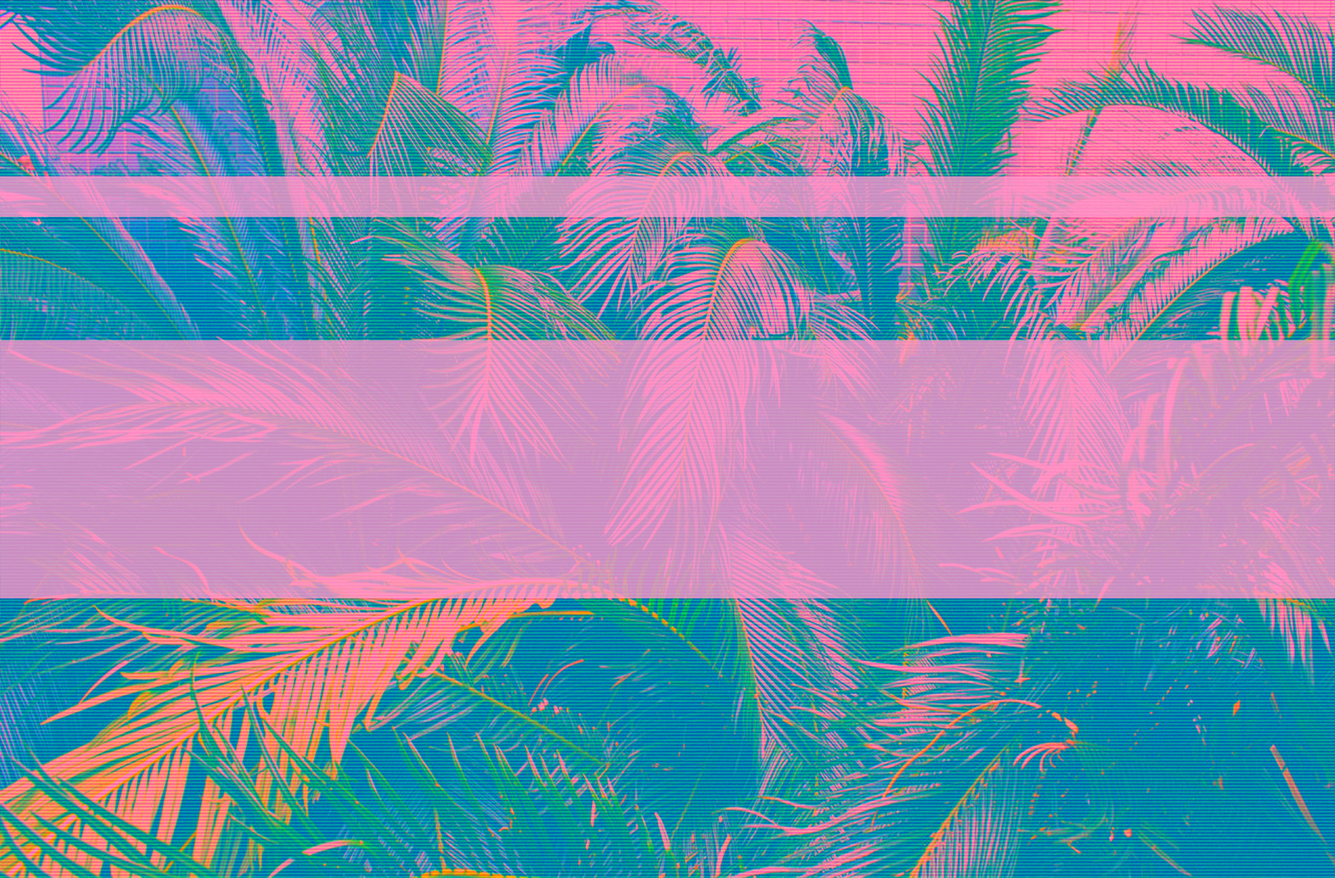
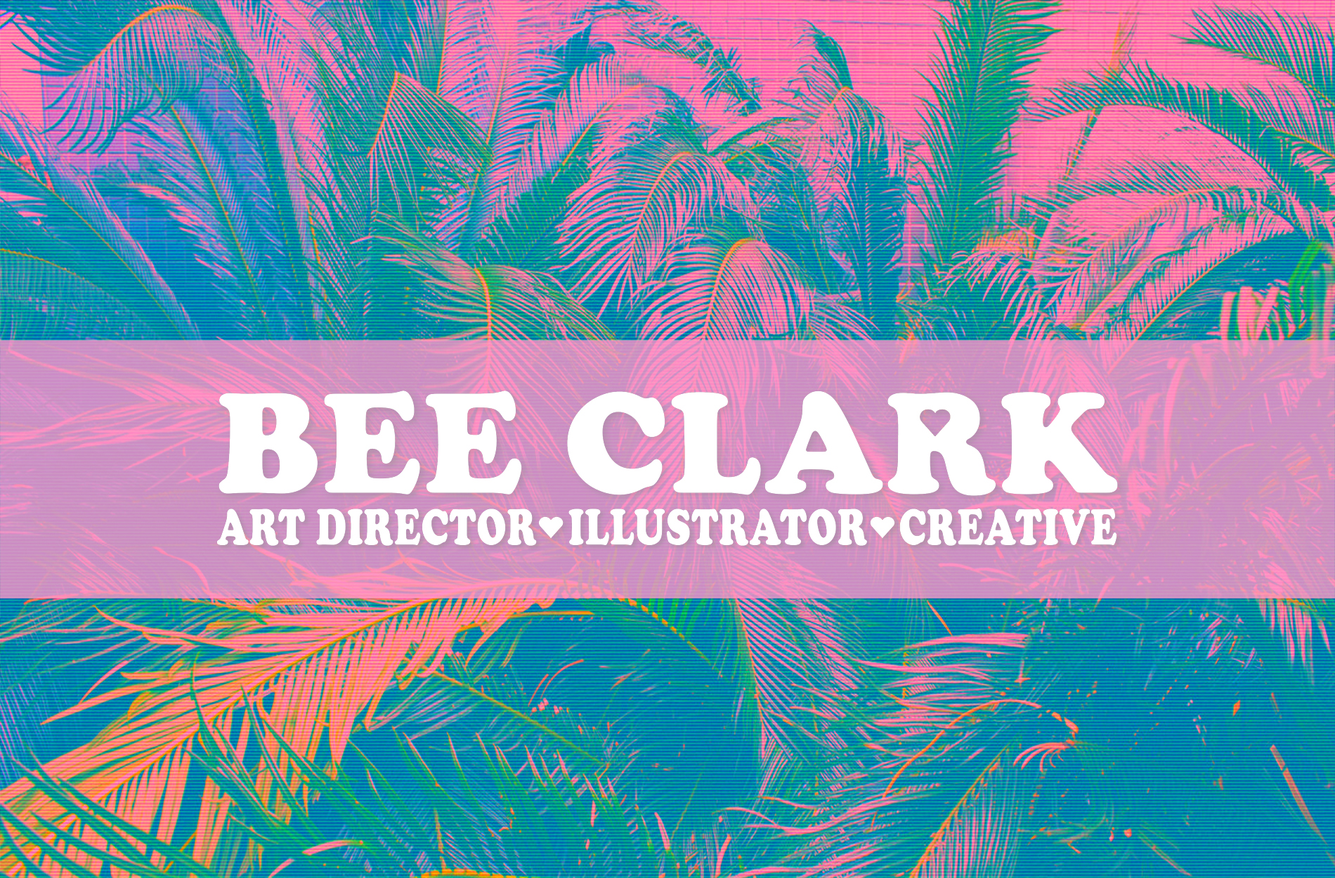
try again

Changed region(s): [[0.1553, 0.4368, 0.8384, 0.624], [0.0, 0.1872, 1.0, 0.2496]]

diff --git a/index.html b/index.html
@@ -66,7 +66,8 @@
 <header class="masthead">
     <div class="container">
         <div class="intro-text">
-            <img class="img-fluid" src="img/logo-name.png" alt="">
+            <br class="padder">
+        </div>
     </div>
 </header>
 

diff --git a/css/agency.css b/css/agency.css
@@ -130,6 +130,10 @@ body {
         font-size: 1.25em;
         padding: 12px 0; } }
 
+.padder {
+  height: 200px;
+}
+
 header.masthead {
   text-align: center;
   color: white;
